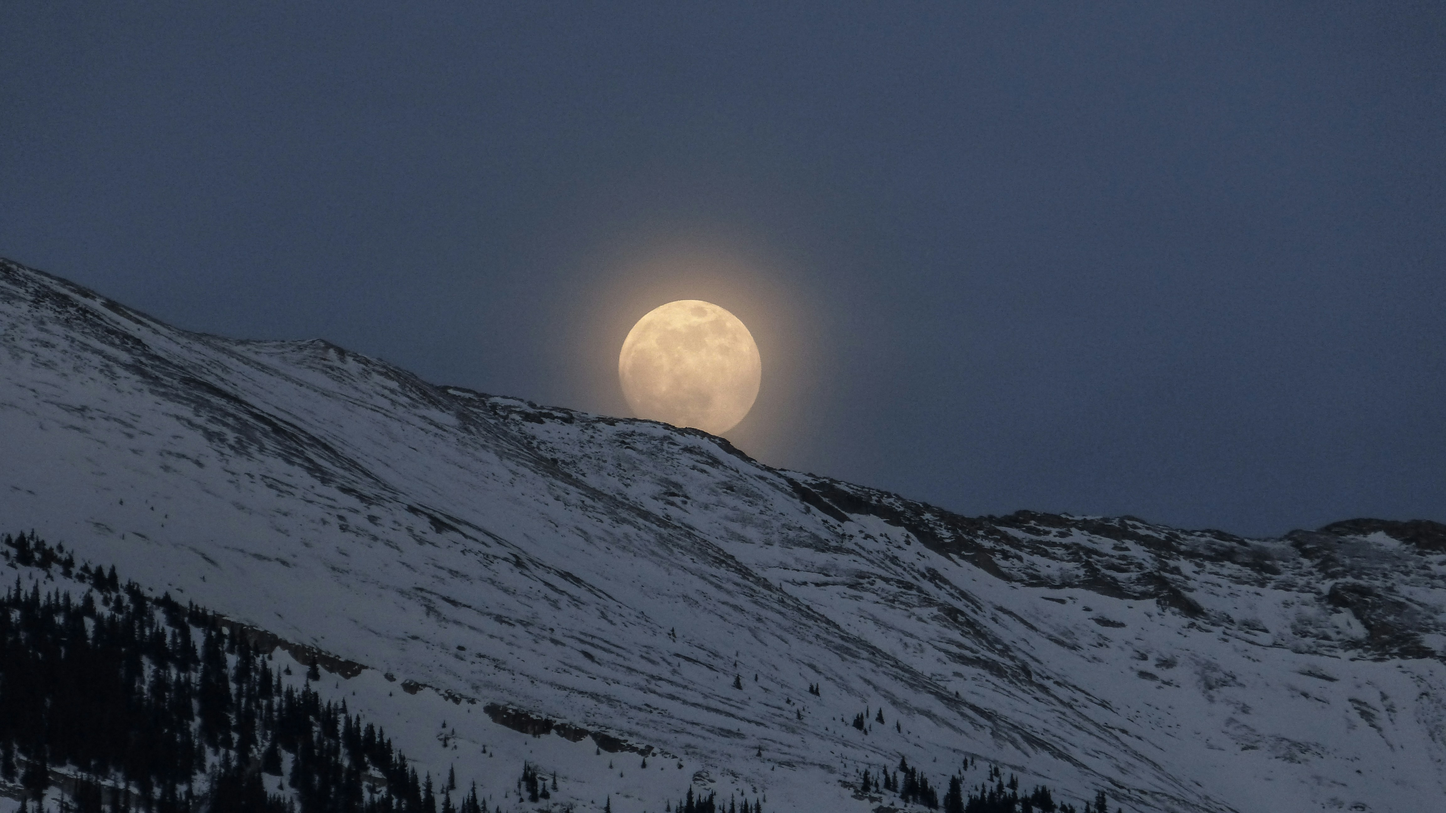
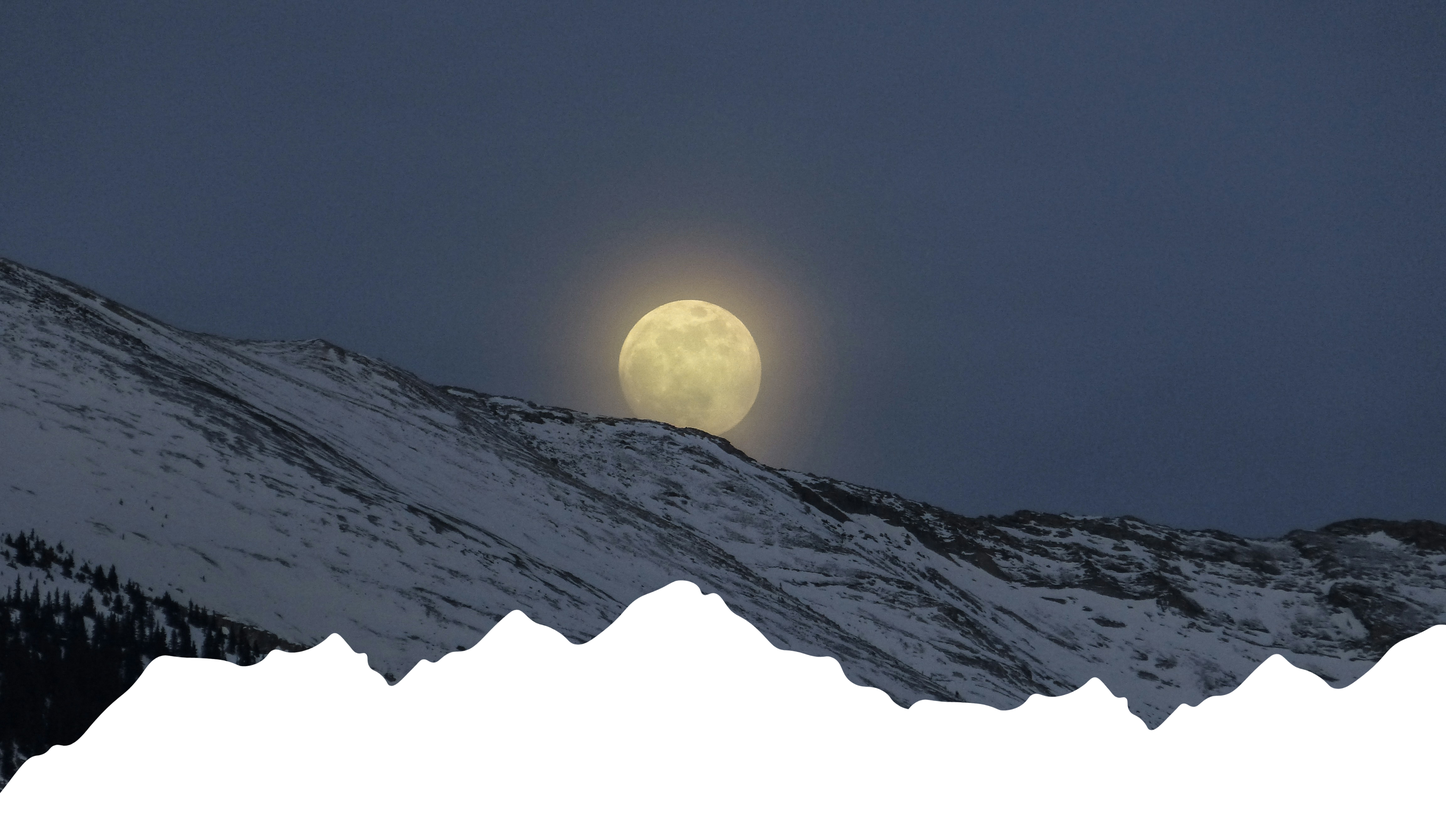
Adjust styles for improved layout and visual consistency

Changed region(s): [[0.0, 0.7188, 1.0, 1.0]]

diff --git a/index.html b/index.html
@@ -16,21 +16,21 @@
         <div class="hero-content">
             <div class="hero-text"> 
                 <p>MEET THE</p>
-                <h1>Snowy <br>  Owls</h1>
+                <h1>Snowy <br>  Owl</h1>
             </div>
 
             <div class="explore-scroll">
                 <h3>START EXLPORING</h3>
                 
                 <!-- Uploaded to: SVG Repo, www.svgrepo.com, Generator: SVG Repo Mixer Tools -->
-                <svg id="arrow-down" width="100px" height="100px" viewBox="0 0 24 24" fill="none" xmlns="http://www.w3.org/2000/svg">
+                <svg id="arrow-down" width="100px" height="100px" viewBox="0 0 24 24" fill="#dbd098" xmlns="http://www.w3.org/2000/svg">
                     <g clip-path="url(#clip0_429_11251)">
-                        <path d="M7 10L12 15" stroke="#292929" stroke-width="2.5" stroke-linecap="round" stroke-linejoin="round"/>
-                        <path d="M12 15L17 10" stroke="#292929" stroke-width="2.5" stroke-linecap="round" stroke-linejoin="round"/>
+                        <path d="M7 10L12 15" stroke="#dbd098" stroke-width="2.5" stroke-linecap="round" stroke-linejoin="round"/>
+                        <path d="M12 15L17 10" stroke="#dbd098" stroke-width="2.5" stroke-linecap="round" stroke-linejoin="round"/>
                     </g>
                     <defs>
                         <clipPath id="clip0_429_11251">
-                        <rect width="24" height="24" fill="white"/>
+                        <rect width="24" height="24" fill="#dbd098"/>
                         </clipPath>
                     </defs>
                 </svg>
@@ -58,8 +58,6 @@
         </div>
     </section>
 
-    
-
     <section class="intro">
         <div>
             <h3>Lets explore the magic of the</h3>
@@ -68,9 +66,14 @@
     </section>
 
     <section class="fun-fact-wings">
-        <p>The snowy owl is a...</p>
-        <h2>Silent Hunter</h2>
-        <button>See me in flight</button>
+        <div class="container">
+            <div class="text-group">
+                <p>The snowy owl is a...</p>
+                <h2>Silent Hunter</h2>
+            </div>
+            <button>See me in flight</button>
+        </div>
+        
     </section>
 
     <section class="fun-fact-eyes">
@@ -80,8 +83,10 @@
     </section>
 
     <section class="fun-fact-diurnal">
-        <h3>Unlike most owls that are nocturnal,</h3>
-        <h3>snowy owls are...</h3>
+        <div class="text-group">
+            <h4>Unlike most owls that are nocturnal,</h4>
+            <h3>snowy owls are...</h3>
+        </div>
         <h2>Diurnal</h2>
     </section>
 

diff --git a/style.css b/style.css
@@ -7,10 +7,19 @@
 * {
     margin: 0;
     padding: 0;
+    border: 1px red solid; /* For debugging layout */
+}
+
+.intro, .fun-fact-wings, .fun-fact-eyes, .fun-fact-diurnal {
+    padding: 50vh;
+    text-align: center;
 }
 
 h1, h2 { /* Titles */
     font-family: 'roca', sans-serif;
+    font-size: 100px;
+    letter-spacing: -7px;
+    line-height: 0.8;
     text-align: center;
 }
 
@@ -23,7 +32,7 @@ h1 { /* Main title - Snowy Owls*/
     align-self: center;
 }
 
-h3 {
+h3, h4 {
     font-size: 50px;
     font-family: 'Lora', sans-serif;
 }
@@ -53,7 +62,7 @@ button {
     align-items: center;
     background-color: #39455a;
     text-align: center;
-    background-image: url('./images/hero-layered.jpg');
+    background-image: url('./images/hero.jpg');
     background-size:  cover; /* Ensure the image covers the entire div */
     background-position: center; /* Center the image */
     background-position: right 10%; /* Adjust horizontal position to postion moon under title */
@@ -71,15 +80,16 @@ button {
     font-weight: bold;
 }
 
-.explore-scroll {
-    bottom: 20px;
-    font-size: 10px;
+.explore-scroll h3{
     color: #dbd098;
+    font-size: 30px;
+    text-shadow: 0 0 5px rgb(255, 242, 176) /* Yellow glow effect */;
 }
 
 #arrow-down {
     translate: 0 -10px;
     animation: bounce 2s infinite;
+    filter: drop-shadow(0 0 10px rgba(255, 255, 211, 0.855)); /* Yellow glow effect */
 }
 
 @keyframes bounce {
@@ -97,11 +107,20 @@ button {
     gap: 100px;
     margin-bottom: 100px;
 }
-
-.intro, .fun-fact-wings, .fun-fact-eyes, .fun-fact-diurnal {
-    padding: 50vh;
-    text-align: center;
+/* Fun fact section - Wingspan */
+.fun-fact-wings p { 
+    color: #c3cad2;
+    font-size: 30px;
 }
+.fun-fact-wings h2 { color: #2d3540;}
+/* Fun fact section - Diurnal */
+.fun-fact-diurnal .text-group {
+    color: #737b83;
+}
+
+.fun-fact-diurnal h4 { font-size: 25px;}
+.fun-fact-diurnal h2 { font-size: 150px;}
+ 
 
 /* Tree styles and animation */
 .trees {
